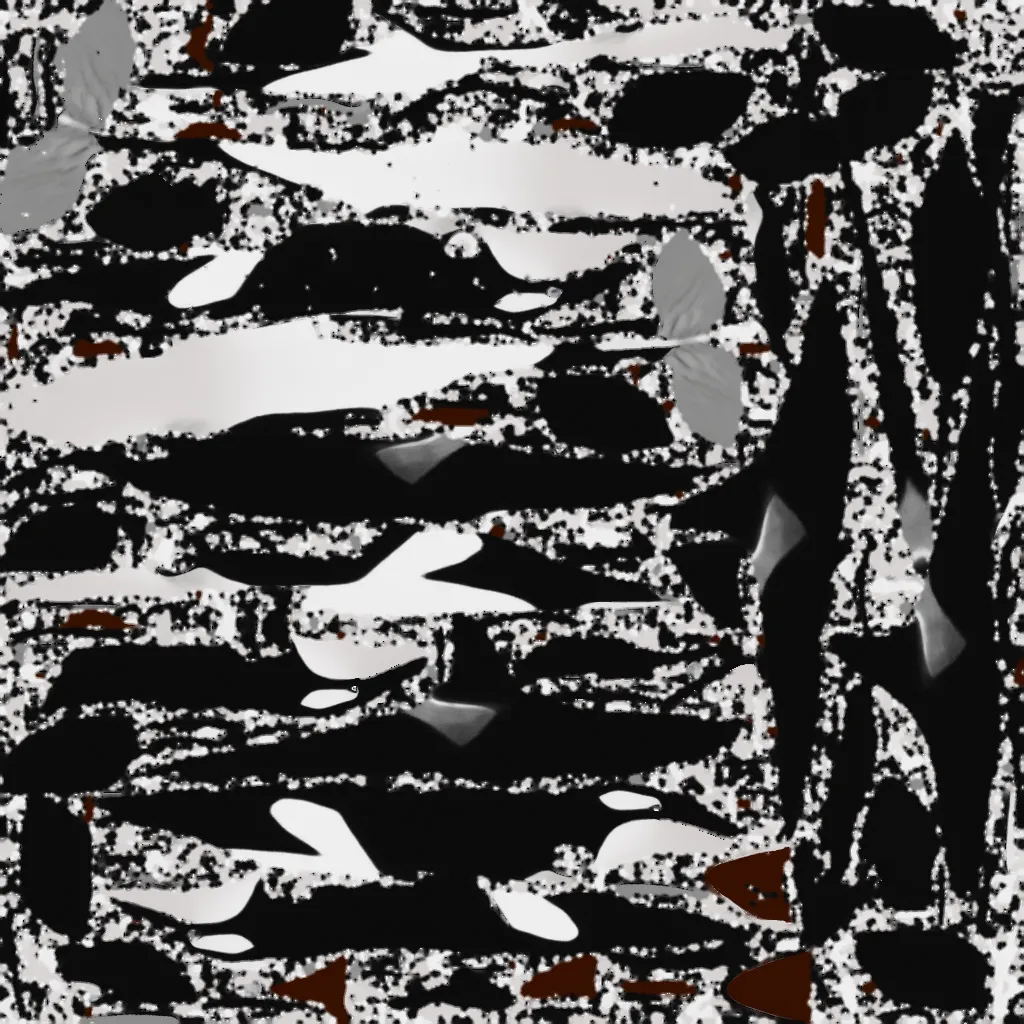
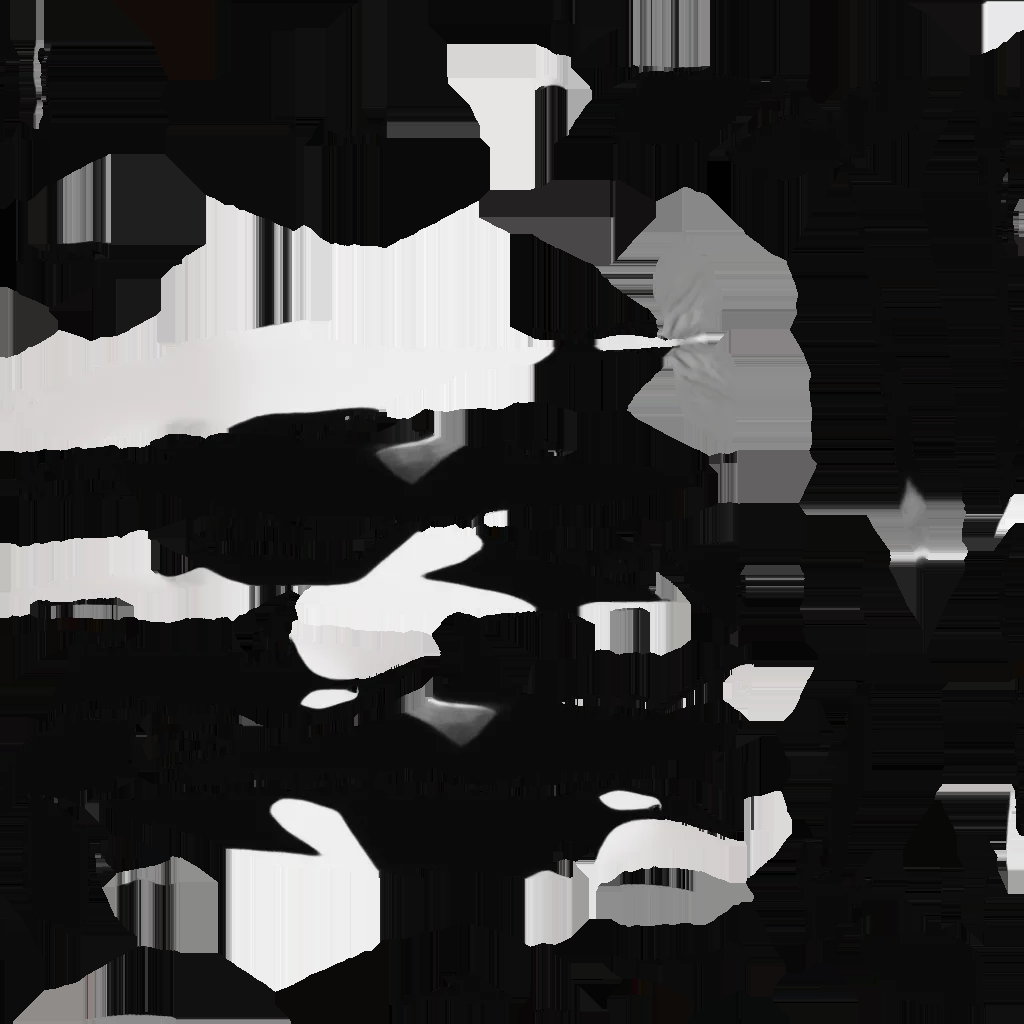
fix: remove Orca texture seam artifacts

diff --git a/docs/orca_squid_huggingface_redraw.md b/docs/orca_squid_huggingface_redraw.md
@@ -70,3 +70,23 @@ Fresh16/16 focused mesh/motion checks pass, including a new regression that chec
 Matched Guide draws/triangles remain Orca1/17,186 and Squid3/25,175. Both still use one1024² color texture per species; the physical shader adds modest reflectance/albedo arithmetic, so unchanged geometry/draw counts are not a claim of unchanged GPU time. No phone thermal or FPS improvement is claimed. Geometry/material/texture ownership and fallback are checked separately; the existing single animation loop and gameplay inputs are unchanged. User acceptance remains pending, with no commit, push or formal release.
 
 Fresh lifecycle checks confirm four Guide reopen cycles reuse model/skeleton/geometry/texture identities, with stable warmed8 geometries/6 textures across the Guide context. Forced texture-load failure keeps both colored fallback skins usable. The original15 compiled artifacts are byte-matched on the restricted origin and public tunnel;11 private/source paths remain denied on each. Public native English1440px and Chinese390px touch-emulated Guide/start/ability/pause/Home flows and same-address reload pass without observed errors or production hooks. Current entry is `index-CDzXBTyX.js`. Original process identities remain unchanged. See `review.json`, `lifecycle.json`, `public/report.json` and `artifacts.json`; two matched comparison images show the immediate previous HF shading on the left and this revision on the right.
+
+## Orca atlas-seam follow-up — 2026-10-19
+
+Before this separate fix, the user requests a local checkpoint of the delivered Mechanical Shark changes: `42b379e` on `art/mechanical-hf-redraw`, with no push or formal release. All834 previously delivered source fingerprints and17 compiled artifacts matched before acceptance-only notes. Earlier no-commit labels retain their historical scope.
+
+The supplied rear-follow screenshot shows thin bright lines along Orca's back and edges. Native matched shadow-on/off images retain them, and an unlit color-map render reproduces them without any reflectance. Disabling mip filtering largely removes them. The raw atlas contains bright reconstruction fragments outside the retained outer-shell UV islands; minification blends these colors across chart borders. Normal/clay views do not reproduce those fine lines. This is a texture-filtering seam defect, separate from the previously softened material highlights.
+
+The offline Orca converter now rasterizes the final quantized UV triangles and extends valid RGB outward over unused atlas pixels using neighboring interior texels. All290,023 covered texel RGB values are preserved exactly; no erosion or painting of the real black/white markings is applied. The already opaque skin's irrelevant texture alpha is discarded before lossless WebP encoding, avoiding the encoder dropping hidden RGB. The asset stays1024², with standard mipmaps and filtering enabled. Positions, normals, UVs, indices, dimensions, bindings, animation, material, lights, shadows, bloom, feeding and sonar are unchanged. No runtime shader, texture fetch, render pass or loop is added. The actual original atlas/export and rejected inset trials remain under ignored `.local/orca_reflection_20261019/`; no HF inference is required.
+
+Fresh evidence in that directory:
+
[1 lines of base64/hex data omitted]
+- `focused.log`:16 affected organic-model/motion checks pass. `review.json` / `compare_*.png`:matched rear, both sides, underside, farther distance, sprint and turn, plus the actual world pipeline and real sprint/turn/sonar/pause/Home. Seven Guide comparisons preserve1 draw/17,186 triangles. A staged12m open-water position and temporary inspection cameras are labeled fixtures; the normal follow camera is also inspected. No observed shader/page/console errors. These are native desktop Chrome checks, not physical-phone or FPS evidence.
+- The color map shrinks295,656→72,152 bytes, because unused noisy colors are removed. Texture dimensions/upload count and approximately5.33MiB RGBA+mip allocation per used WebGL context remain unchanged; this is a transfer saving, not a frame-rate claim. Other creature assets and the Mechanical Shark checkpoint are unchanged.
+
+The same restricted preview is rebuilt as `index-CXhjqd6u.js`, loading `orca_color-he2_mjZB.webp`. Current public interaction/hash receipts are saved in `public/report.json` and `artifacts.json`; historical public receipts above are not reused as this fix's results. Original services and formal main/Pages v0.11.12 remain. This Orca correction stays uncommitted for user review.
+
+Final follow-up checks pass:17 runtime artifacts match build/local/public byte-for-byte;11 source/private paths per origin remain denied. English desktop and Chinese390px touch-emulated Guide/start/sprint/sonar/pause/Home, loaded replacement texture and same-URL refresh pass without browser errors or production hooks. Formatting and build pass. The public checks do not constitute physical-phone testing.
+
+The user accepts this atlas-seam correction and authorizes a local commit on2026-10-19. All835 delivered source fingerprints and17 build artifacts match before acceptance-only documentation edits; the existing verification receipts retain their recorded scope. No push or formal release is requested. The subsequent four-player sprint-motion review is a separate, uncommitted task.

diff --git a/HANDOFF.md b/HANDOFF.md
@@ -1,5 +1,9 @@
 # Cinematic Mechanical Shark replacement — 2026-10-19
 
+Accepted Orca texture checkpoint — 2026-10-19: the user accepts the atlas-seam correction and authorizes a local commit before reviewing sprint-fin motion for the four player characters. All835 delivered source fingerprints and17 artifacts match before these acceptance-only notes. Prior targeted/native/public checks retain their recorded scope. No push or release is requested; new motion work returns to uncommitted review status. The current AI agent works alone and preserves gameplay, services and archives.
+
+Current Orca texture-seam correction — 2026-10-19: local checkpoint `42b379e` preserves the reviewed Mechanical Shark redesign, side boosters and sprint black-frame fix. The current AI agent independently repairs Orca atlas padding after reproducing bright lines in unlit renders. Preserve all covered pattern RGB, model geometry, swimming, materials, lighting and gameplay. See [the current review](docs/orca_squid_huggingface_redraw.md#orca-atlas-seam-follow-up--2026-10-19). This new fix remains uncommitted/unpushed for review; keep original services, archives and formal main v0.11.12.
+
 Accepted local checkpoint — 2026-10-19: the user authorizes committing the current Mechanical Shark redesign, body-side pale-blue boosters and sprint black-frame correction before a separate Orca reflection fix. All834 delivered source fingerprints and17 build files match before these acceptance-only notes. Existing focused/native/public checks retain their actual recorded scope; they are not rerun for this checkpoint. Preserve archived candidates, services and formal main v0.11.12. No push or release is requested. The current AI agent independently investigates the Orca next, leaving that new fix uncommitted for review. Earlier uncommitted labels below are historical for this checkpoint.
 
 Current body-side booster follow-up — 2026-10-19: move the cinematic Mechanical Shark pair to the left/right torso, reshape the old stacked-tail housings into a coupling, and verify attachments, fin clearance, swimming, missiles and public preview. See [the current review](docs/mechanical_cinematic_revision.md#body-side-booster-follow-up--2026-10-19). The current AI agent works alone; preserve gameplay, services, historical work and6b7cb70. No new HF request, commit or push. Follow-up: longer pale-blue outer plumes and blue-white cores replace warm exhaust; view-space radial fading preserves level/rear visibility. See the same review’s pale-blue plume follow-up. Black-frame follow-up: the user accepts the pale-blue plume appearance; clamp its interpolated fade input before fractional power to prevent NaN pixels contaminating HDR/bloom. The original look and gameplay remain. See the same review’s black-frame follow-up for fresh native/public evidence; the correction remains uncommitted for replay.

diff --git a/AGENTS.md b/AGENTS.md
@@ -1,5 +1,9 @@
 # ABYSSAL Development Rules
 
+Accepted Orca texture checkpoint — 2026-10-19: the user accepts the atlas-seam correction and authorizes a local commit before reviewing sprint-fin motion for the four player characters. All835 delivered source fingerprints and17 artifacts match before these acceptance-only notes. Prior targeted/native/public checks retain their recorded scope. No push or release is requested; new motion work returns to uncommitted review status. The current AI agent works alone and preserves gameplay, services and archives.
+
+Current Orca texture-seam correction — 2026-10-19: local checkpoint `42b379e` preserves the reviewed Mechanical Shark redesign, side boosters and sprint black-frame fix. The current AI agent independently repairs Orca atlas padding after reproducing bright lines in unlit renders. Preserve all covered pattern RGB, model geometry, swimming, materials, lighting and gameplay. See [the current review](docs/orca_squid_huggingface_redraw.md#orca-atlas-seam-follow-up--2026-10-19). This new fix remains uncommitted/unpushed for review; keep original services, archives and formal main v0.11.12.
+
 Accepted local checkpoint — 2026-10-19: the user authorizes committing the current Mechanical Shark redesign, body-side pale-blue boosters and sprint black-frame correction before a separate Orca reflection fix. All834 delivered source fingerprints and17 build files match before these acceptance-only notes. Existing focused/native/public checks retain their actual recorded scope; they are not rerun for this checkpoint. Preserve archived candidates, services and formal main v0.11.12. No push or release is requested. The current AI agent independently investigates the Orca next, leaving that new fix uncommitted for review. Earlier uncommitted labels below are historical for this checkpoint.
 
 Current body-side booster follow-up — 2026-10-19: move the cinematic Mechanical Shark pair to the left/right torso, reshape the old stacked-tail housings into a coupling, and verify attachments, fin clearance, swimming, missiles and public preview. See [the current review](docs/mechanical_cinematic_revision.md#body-side-booster-follow-up--2026-10-19). The current AI agent works alone; preserve gameplay, services, historical work and6b7cb70. No new HF request, commit or push. Follow-up: longer pale-blue outer plumes and blue-white cores replace warm exhaust; view-space radial fading preserves level/rear visibility. See the same review’s pale-blue plume follow-up. Black-frame follow-up: the user accepts the pale-blue plume appearance; clamp its interpolated fade input before fractional power to prevent NaN pixels contaminating HDR/bloom. The original look and gameplay remain. See the same review’s black-frame follow-up for fresh native/public evidence; the correction remains uncommitted for replay.

diff --git a/README.md b/README.md
@@ -1,5 +1,9 @@
 # ABYSSAL
 
+Accepted Orca texture checkpoint — 2026-10-19: the user accepts the atlas-seam correction and authorizes a local commit before reviewing sprint-fin motion for the four player characters. All835 delivered source fingerprints and17 artifacts match before these acceptance-only notes. Prior targeted/native/public checks retain their recorded scope. No push or release is requested; new motion work returns to uncommitted review status. The current AI agent works alone and preserves gameplay, services and archives.
+
+Current Orca texture-seam correction — 2026-10-19: local checkpoint `42b379e` preserves the reviewed Mechanical Shark redesign, side boosters and sprint black-frame fix. The current AI agent independently repairs Orca atlas padding after reproducing bright lines in unlit renders. Preserve all covered pattern RGB, model geometry, swimming, materials, lighting and gameplay. See [the current review](docs/orca_squid_huggingface_redraw.md#orca-atlas-seam-follow-up--2026-10-19). This new fix remains uncommitted/unpushed for review; keep original services, archives and formal main v0.11.12.
+
 Accepted local checkpoint — 2026-10-19: the user authorizes committing the current Mechanical Shark redesign, body-side pale-blue boosters and sprint black-frame correction before a separate Orca reflection fix. All834 delivered source fingerprints and17 build files match before these acceptance-only notes. Existing focused/native/public checks retain their actual recorded scope; they are not rerun for this checkpoint. Preserve archived candidates, services and formal main v0.11.12. No push or release is requested. The current AI agent independently investigates the Orca next, leaving that new fix uncommitted for review. Earlier uncommitted labels below are historical for this checkpoint.
 
 Current body-side booster follow-up — 2026-10-19: move the cinematic Mechanical Shark pair to the left/right torso, reshape the old stacked-tail housings into a coupling, and verify attachments, fin clearance, swimming, missiles and public preview. See [the current review](docs/mechanical_cinematic_revision.md#body-side-booster-follow-up--2026-10-19). The current AI agent works alone; preserve gameplay, services, historical work and6b7cb70. No new HF request, commit or push. Follow-up: longer pale-blue outer plumes and blue-white cores replace warm exhaust; view-space radial fading preserves level/rear visibility. See the same review’s pale-blue plume follow-up. Black-frame follow-up: the user accepts the pale-blue plume appearance; clamp its interpolated fade input before fractional power to prevent NaN pixels contaminating HDR/bloom. The original look and gameplay remain. See the same review’s black-frame follow-up for fresh native/public evidence; the correction remains uncommitted for replay.
